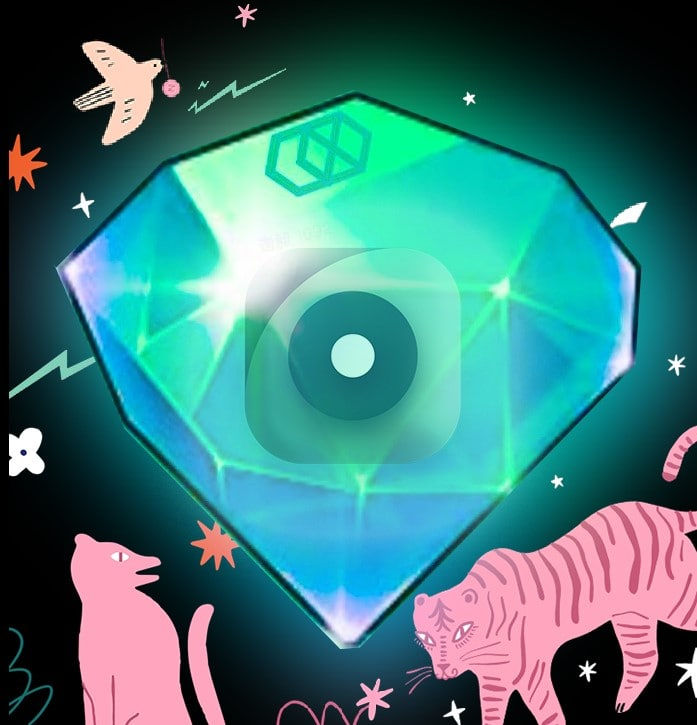
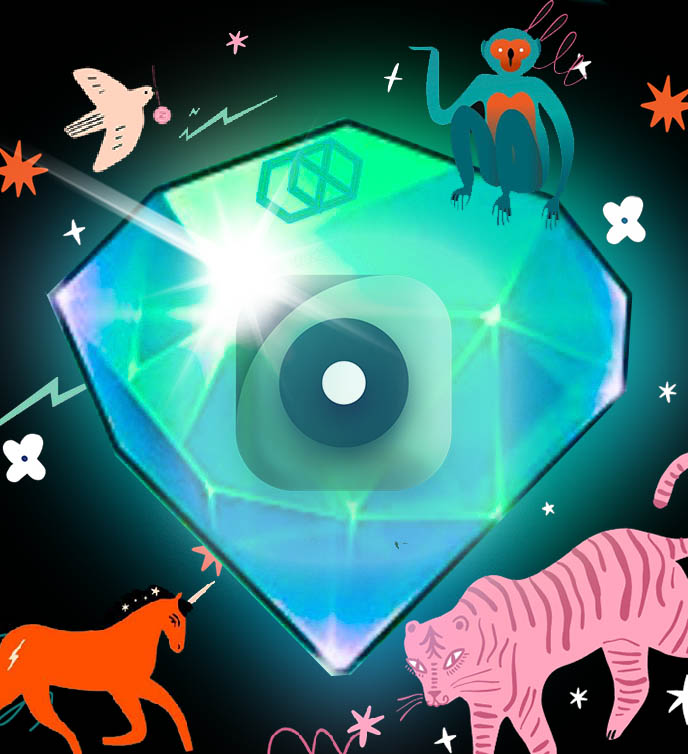
warn

diff --git a/Gallery/index.html b/Gallery/index.html
@@ -127,8 +127,8 @@
         </div>
 
         <div class="container">
-          <img src="./diamondsForShowing/legendary/toRealse.jpg" alt="">
-          <p>Guess who I am.</p>
+          <img class="stress-leg" src="./diamondsForShowing/legendary/zoo.jpg" alt="">
+          <p>You are animals, animals.</p>
         </div>
 
       </div>
